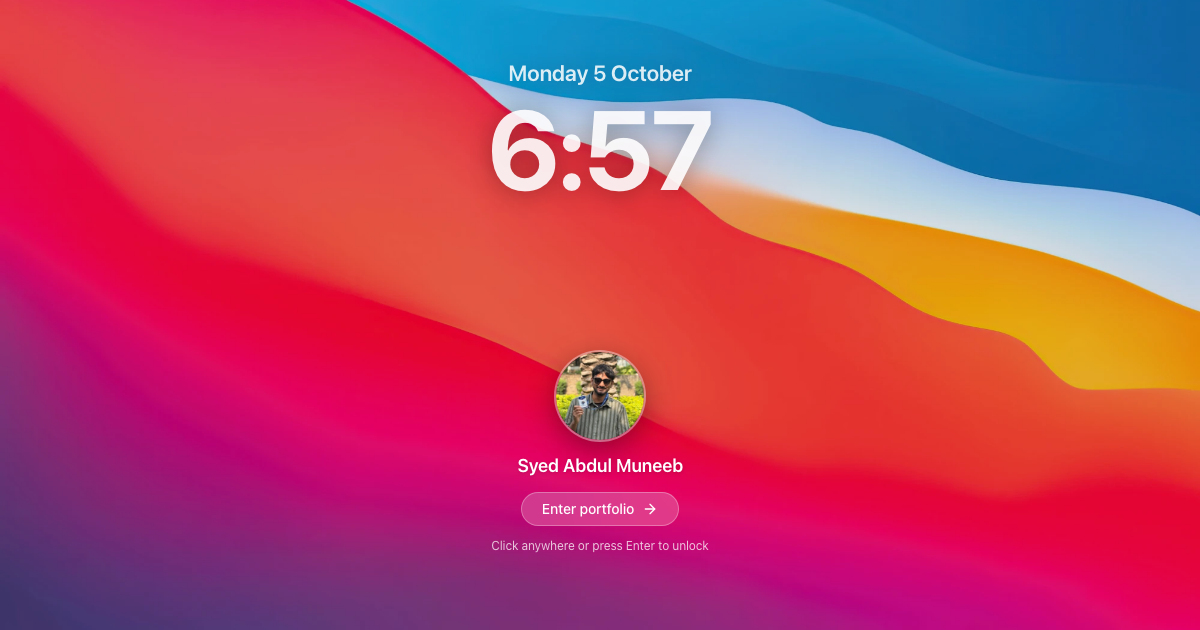
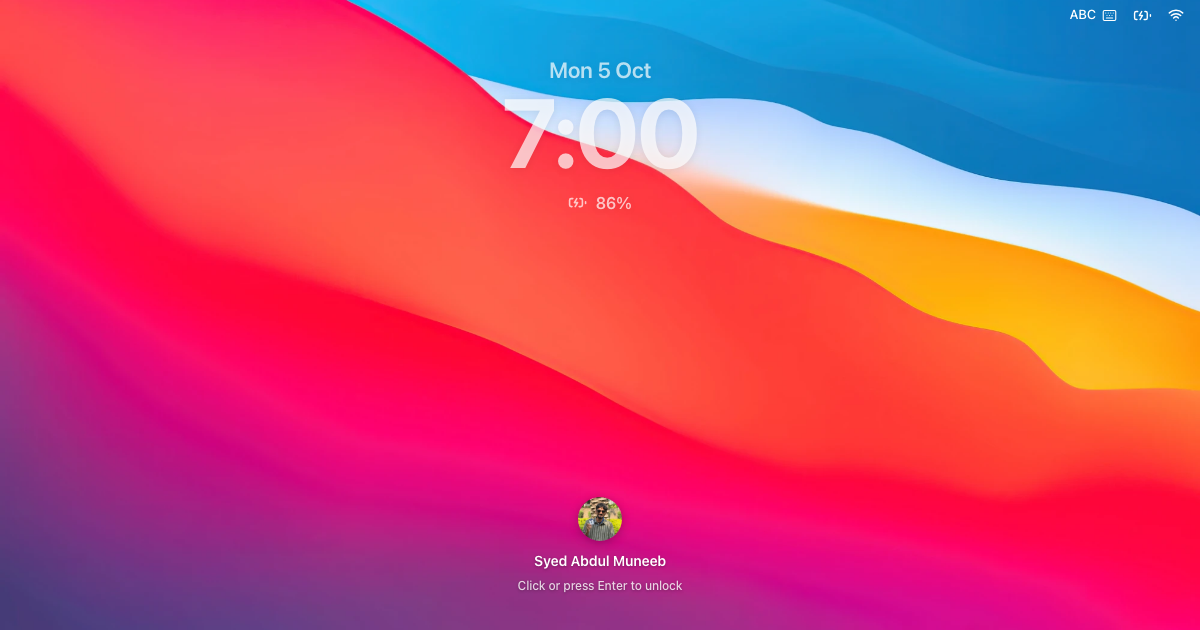
macOS shell: match real lock screen placement and sizing
Short date, larger translucent clock, battery status, small avatar near
the bottom with an unlock hint, status icons top-right.

diff --git a/components/mac/lock-screen.tsx b/components/mac/lock-screen.tsx
@@ -3,7 +3,7 @@
 import { useEffect, useRef, useState } from "react";
 import Image from "next/image";
 import { motion } from "framer-motion";
-import { ArrowRight } from "lucide-react";
+import { BatteryCharging, BatteryFull, Keyboard, Wifi } from "lucide-react";
 import avatar from "../../public/avatar-256.jpg";
 import { DEFAULT_WALLPAPER } from "@/lib/wallpapers";
 import { useWindowManager } from "@/lib/window-manager";
@@ -17,6 +17,7 @@ export function LockScreen({ onUnlock }: LockScreenProps) {
   const [isUnlocking, setIsUnlocking] = useState(false);
   const hasUnlockedRef = useRef(false);
   const savedWallpaper = useWindowManager((state) => state.wallpaper);
+  const battery = useBatteryStatus();
 
   useEffect(() => {
     setNow(new Date());
@@ -45,10 +46,13 @@ export function LockScreen({ onUnlock }: LockScreenProps) {
     : "";
   const date =
     now?.toLocaleDateString("en-GB", {
-      weekday: "long",
-      month: "long",
+      weekday: "short",
       day: "numeric",
+      month: "short",
     }) ?? "";
+
+  // Translucent white so the wallpaper tints the text, like macOS vibrancy.
+  const vibrantText = "text-white/70 [text-shadow:0_1px_8px_rgba(0,0,0,0.08)]";
 
   return (
     <motion.div
@@ -62,39 +66,104 @@ export function LockScreen({ onUnlock }: LockScreenProps) {
       }}
       onClick={unlock}
     >
-      <div className="absolute inset-0 bg-black/10" />
-
-      <div className="relative z-10 mt-[9vh] text-center drop-shadow-[0_2px_12px_rgba(0,0,0,0.35)]">
-        <div className="text-[22px] font-semibold text-white/85">{date}</div>
-        <div className="text-[112px] font-bold leading-[1.05] tracking-[-0.02em] text-white/90">
-          {time}
-        </div>
+      {/* Status icons, top-right */}
+      <div className="absolute right-4 top-0 z-10 flex h-[30px] items-center gap-4 text-[13px] font-medium text-white">
+        <span className="flex items-center gap-1.5">
+          ABC <Keyboard className="size-[15px]" strokeWidth={1.75} />
+        </span>
+        {battery?.charging ? (
+          <BatteryCharging className="size-[19px]" strokeWidth={1.75} />
+        ) : (
+          <BatteryFull className="size-[19px]" strokeWidth={1.75} />
+        )}
+        <Wifi className="size-4" strokeWidth={2.25} />
       </div>
 
-      <div className="relative z-10 mt-auto mb-[12vh] flex flex-col items-center gap-3">
-        <Image
-          src={avatar}
-          alt="Syed Abdul Muneeb"
-          width={88}
-          height={88}
-          priority
-          className="size-[88px] rounded-full object-cover shadow-[0_8px_30px_rgba(0,0,0,0.4)] ring-2 ring-white/40"
-        />
-        <div className="text-lg font-semibold drop-shadow">Syed Abdul Muneeb</div>
+      <div className="relative z-10 mt-[8.5vh] flex flex-col items-center text-center">
+        <div className={`text-[clamp(22px,3.3vh,34px)] font-semibold ${vibrantText}`}>
+          {date}
+        </div>
+        <div
+          className={`-mt-[0.5vh] text-[clamp(96px,15.5vh,156px)] font-bold leading-[1] tracking-[-0.025em] ${vibrantText}`}
+        >
+          {time}
+        </div>
+        {battery && (
+          <div className={`mt-[1.5vh] flex items-center gap-2 text-[clamp(16px,2.4vh,24px)] font-semibold ${vibrantText}`}>
+            {battery.charging ? (
+              <BatteryCharging className="size-[1.2em]" strokeWidth={2} />
+            ) : (
+              <BatteryFull className="size-[1.2em]" strokeWidth={2} />
+            )}
+            {battery.level}%
+          </div>
+        )}
+      </div>
+
+      <div className="relative z-10 mt-auto mb-[5.5vh] flex flex-col items-center">
         <button
           onClick={(e) => {
             e.stopPropagation();
             unlock();
           }}
-          className="flex items-center gap-2 rounded-full border border-white/30 bg-white/20 px-5 py-1.5 text-sm font-medium backdrop-blur-xl hover:bg-white/30 focus:outline-none focus-visible:ring-2 focus-visible:ring-white"
+          aria-label="Unlock"
+          className="rounded-full focus:outline-none focus-visible:ring-2 focus-visible:ring-white"
         >
-          Enter portfolio
-          <ArrowRight className="size-4" />
+          <Image
+            src={avatar}
+            alt="Syed Abdul Muneeb"
+            width={52}
+            height={52}
+            priority
+            className="size-[clamp(44px,5.4vh,56px)] rounded-full object-cover shadow-[0_2px_10px_rgba(0,0,0,0.25)]"
+          />
         </button>
-        <div className="text-xs text-white/75">
-          Click anywhere or press Enter to unlock
+        <div className="mt-[1.4vh] text-[clamp(14px,1.8vh,18px)] font-semibold [text-shadow:0_1px_3px_rgba(0,0,0,0.3)]">
+          Syed Abdul Muneeb
+        </div>
+        <div className="mt-[1vh] text-[clamp(12px,1.35vh,14px)] font-medium text-white/80 [text-shadow:0_1px_3px_rgba(0,0,0,0.3)]">
+          Click or press Enter to unlock
         </div>
       </div>
     </motion.div>
   );
+}
+
+type BatteryStatus = { level: number; charging: boolean };
+
+// Real battery level where the browser exposes it (Chromium); null elsewhere.
+function useBatteryStatus() {
+  const [status, setStatus] = useState<BatteryStatus | null>(null);
+
+  useEffect(() => {
+    const nav = navigator as Navigator & {
+      getBattery?: () => Promise<{
+        level: number;
+        charging: boolean;
+        addEventListener: (type: string, listener: () => void) => void;
+        removeEventListener: (type: string, listener: () => void) => void;
+      }>;
+    };
+    if (!nav.getBattery) return;
+
+    let cleanup = () => {};
+    nav.getBattery().then((battery) => {
+      const update = () =>
+        setStatus({
+          level: Math.round(battery.level * 100),
+          charging: battery.charging,
+        });
+      update();
+      battery.addEventListener("levelchange", update);
+      battery.addEventListener("chargingchange", update);
+      cleanup = () => {
+        battery.removeEventListener("levelchange", update);
+        battery.removeEventListener("chargingchange", update);
+      };
+    }).catch(() => {});
+
+    return () => cleanup();
+  }, []);
+
+  return status;
 }
